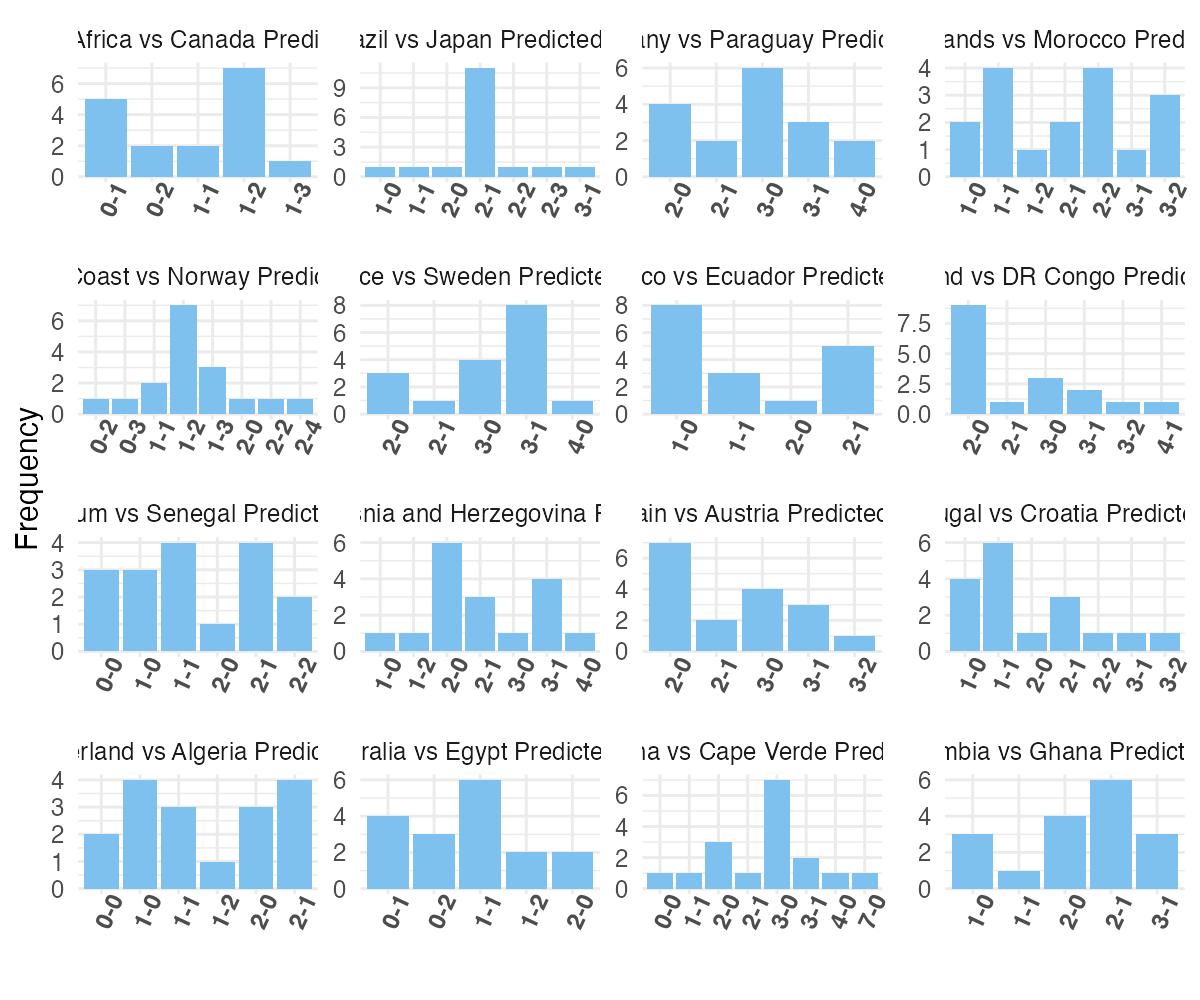
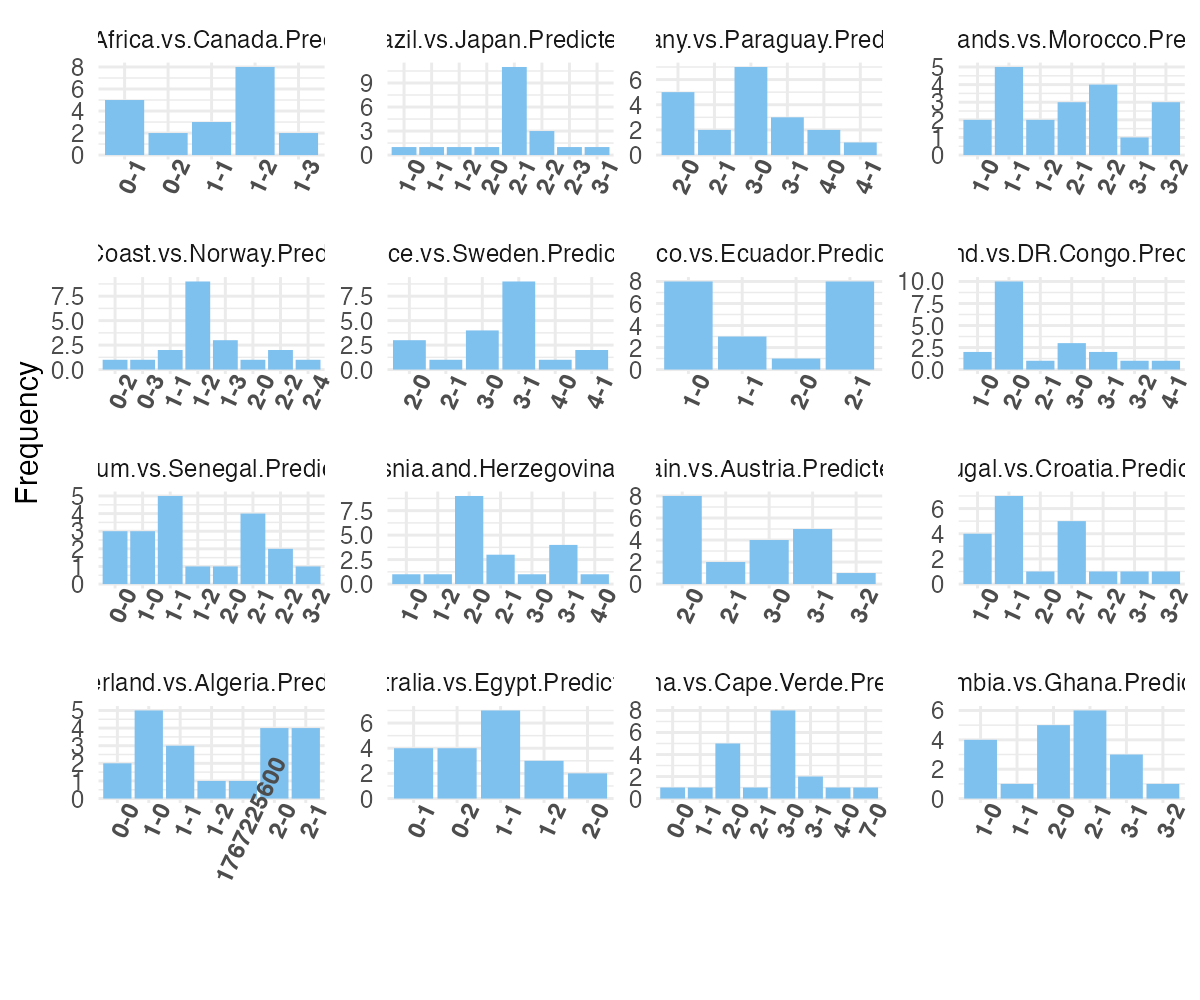
automatic README update

Changed region(s): [[0.0, 0.248, 0.9867, 0.93], [0.0308, 0.031, 0.74, 0.217], [0.7708, 0.031, 0.9867, 0.217]]

diff --git a/README.md b/README.md
@@ -1,4 +1,4 @@
-Last Update: Mon 29 Jun 2026 11:23:41 EDT
+Last Update: Mon 29 Jun 2026 12:03:55 EDT
 # **CANADA-USA-MEXICO FIFA WORLD CUP 2026**
 
 <p align=center>
@@ -79,9 +79,28 @@ Tie-Breaker 3: How far will Canada advance in the tournament?
  ## <u>**Score Predictions**</u>
 
  
-| Participant_ID | 73. South Africa vs Canada Predicted Score | 74. Brazil vs Japan Predicted Score | 75. Germany vs Paraguay Predicted Score | 76. Netherlands vs Morocco Predicted Score | 77. Ivory Coast vs Norway Predicted Score | 78. France vs Sweden Predicted Score | 79. Mexico vs Ecuador Predicted Score | 80. England vs DR Congo Predicted Score | 81. Belgium vs Senegal Predicted Score | 82. USA vs Bosnia and Herzegovina Predicted Score | 83. Spain vs Austria Predicted Score | 84. Portugal vs Croatia Predicted Score | 85. Switzerland vs Algeria Predicted Score | 86. Australia vs Egypt Predicted Score | 87. Argentina vs Cape Verde Predicted Score | 88. Colombia vs Ghana Predicted Score |
-| -------------- | ------------------------------------------ | ----------------------------------- | --------------------------------------- | ------------------------------------------ | ----------------------------------------- | ------------------------------------ | ------------------------------------- | --------------------------------------- | -------------------------------------- | ------------------------------------------------- | ------------------------------------ | --------------------------------------- | ------------------------------------------ | -------------------------------------- | ------------------------------------------- | ------------------------------------- |
-| 001            | 1-2                                        | 2-1                                 | 2-0                                     | 2-1                                        | 1-3                                       | 3-1                                  | 1-0                                   | 2-0                                     | 2-1                                    | 3-1                                               | 2-0                                  | 2-0                                     |                                            |
+| Participant_ID | X73..South.Africa.vs.Canada.Predicted.Score | X74..Brazil.vs.Japan.Predicted.Score | X75..Germany.vs.Paraguay.Predicted.Score | X76..Netherlands.vs.Morocco.Predicted.Score | X77..Ivory.Coast.vs.Norway.Predicted.Score | X78..France.vs.Sweden.Predicted.Score | X79..Mexico.vs.Ecuador.Predicted.Score | X80..England.vs.DR.Congo.Predicted.Score | X81..Belgium.vs.Senegal.Predicted.Score | X82..USA.vs.Bosnia.and.Herzegovina.Predicted.Score | X83..Spain.vs.Austria.Predicted.Score | X84..Portugal.vs.Croatia.Predicted.Score | X85..Switzerland.vs.Algeria.Predicted.Score | X86..Australia.vs.Egypt.Predicted.Score | X87..Argentina.vs.Cape.Verde.Predicted.Score | X88..Colombia.vs.Ghana.Predicted.Score |
+| -------------- | ------------------------------------------- | ------------------------------------ | ---------------------------------------- | ------------------------------------------- | ------------------------------------------ | ------------------------------------- | -------------------------------------- | ---------------------------------------- | --------------------------------------- | -------------------------------------------------- | ------------------------------------- | ---------------------------------------- | ------------------------------------------- | --------------------------------------- | -------------------------------------------- | -------------------------------------- |
+| 001            | 1-2                                         | 2-1                                  | 2-0                                      | 2-1                                         | 1-3                                        | 3-1                                   | 1-0                                    | 2-0                                      | 2-1                                     | 3-1                                                | 2-0                                   | 2-0                                      | 1-0                                         | 1-1                                     | 3-0                                          | 1-0                                    |
+| 002            | 1-1                                         | 2-1                                  | 4-0                                      | 2-2                                         | 1-2                                        | 3-1                                   | 2-1                                    | 3-0                                      | 1-1                                     | 4-0                                                | 2-0                                   | 1-1                                      | 1767225600                                  | 0-2                                     | 3-0                                          | 2-1                                    |
+| 003            | 0-1                                         | 2-1                                  | 3-0                                      | 1-1                                         | 1-2                                        | 3-0                                   | 2-0                                    | 2-0                                      | 1-1                                     | 3-1                                                | 3-0                                   | 1-1                                      | 0-0                                         | 1-1                                     | 7-0                                          | 2-1                                    |
+| 004            | 1-2                                         | 1-1                                  | 3-0                                      | 2-1                                         | 0-3                                        | 2-0                                   | 1-0                                    | 2-0                                      | 0-0                                     | 2-0                                                | 3-0                                   | 1-0                                      | 0-0                                         | 0-1                                     | 0-0                                          | 2-1                                    |
+| 005            | 1-2                                         | 3-1                                  | 4-0                                      | 1-1                                         | 2-0                                        | 3-1                                   | 1-1                                    | 3-1                                      | 1-0                                     | 3-1                                                | 2-0                                   | 1-1                                      | 2-1                                         | 1-2                                     | 4-0                                          | 2-1                                    |
+| 006            | 0-1                                         | 2-1                                  | 3-0                                      | 3-1                                         | 1-2                                        | 3-0                                   | 1-0                                    | 2-0                                      | 2-0                                     | 2-0                                                | 3-0                                   | 2-1                                      | 1-0                                         | 0-1                                     | 3-0                                          | 2-0                                    |
+| 007            | 0-1                                         | 2-1                                  | 3-1                                      | 1-1                                         | 0-2                                        | 2-1                                   | 1-0                                    | 3-0                                      | 0-0                                     | 2-0                                                | 3-2                                   | 1-0                                      | 1-1                                         | 1-1                                     | 3-0                                          | 2-0                                    |
+| 008            | 1-2                                         | 2-1                                  | 3-0                                      | 1-2                                         | 2-2                                        | 3-0                                   | 2-1                                    | 3-2                                      | 1-1                                     | 1-0                                                | 3-0                                   | 2-1                                      | 1-0                                         | 2-0                                     | 2-1                                          | 1-1                                    |
+| 009            | 0-2                                         | 2-0                                  | 2-0                                      | 1-0                                         | 1-3                                        | 2-0                                   | 2-1                                    | 2-1                                      | 2-1                                     | 2-1                                                | 2-1                                   | 1-0                                      | 2-0                                         | 1-1                                     | 2-0                                          | 3-1                                    |
+| 010            | 1-2                                         | 2-1                                  | 2-0                                      | 1-0                                         | 1-3                                        | 4-0                                   | 1-1                                    | 2-0                                      | 1-0                                     | 1-2                                                | 2-0                                   | 3-1                                      | 1-0                                         | 0-2                                     | 3-1                                          | 2-1                                    |
+| 011            | 1-2                                         | 2-1                                  | 2-1                                      | 2-2                                         | 1-2                                        | 3-1                                   | 2-1                                    | 3-1                                      | 2-1                                     | 3-1                                                | 3-1                                   | 2-2                                      | 1-1                                         | 1-2                                     | 3-1                                          | 3-1                                    |
+| 012            | 1-1                                         | 2-2                                  | 4-1                                      | 1-1                                         | 1-2                                        | 4-1                                   | 2-1                                    | 1-0                                      | 3-2                                     | 2-0                                                | 3-1                                   | 2-1                                      | 1-0                                         | 1-1                                     | 3-0                                          | 2-0                                    |
+| 013            | 1-3                                         | 2-3                                  | 3-1                                      | 3-2                                         | 2-4                                        | 3-0                                   | 1-0                                    | 2-0                                      | 2-2                                     | 2-0                                                | 2-0                                   | 3-2                                      | 2-1                                         | 2-0                                     | 1-1                                          | 3-1                                    |
+| 014            | 1-3                                         | 1-2                                  | 2-0                                      | 1-2                                         | 2-2                                        | 3-1                                   | 2-1                                    | 1-0                                      | 1-2                                     | 2-0                                                | 3-1                                   | 1-1                                      | 1-2                                         | 1-2                                     | 2-0                                          | 1-0                                    |
+| 015            | 1-1                                         | 2-1                                  | 3-0                                      | 2-2                                         | 1-1                                        | 3-1                                   | 1-1                                    | 2-0                                      | 1-1                                     | 2-1                                                | 2-1                                   | 1-1                                      | 2-1                                         | 1-1                                     | 2-0                                          | 1-0                                    |
+| 016            | 0-1                                         | 1-0                                  | 2-0                                      | 1-1                                         | 1-1                                        | 2-0                                   | 1-0                                    | 2-0                                      | 2-1                                     | 2-0                                                | 2-0                                   | 1-0                                      | 2-1                                         | 1-1                                     | 2-0                                          | 1-0                                    |
+| 017            | 0-1                                         | 2-1                                  | 3-1                                      | 2-2                                         | 1-2                                        | 3-1                                   | 1-0                                    | 3-0                                      | 0-0                                     | 2-0                                                | 3-1                                   | 1-1                                      | 2-0                                         | 0-1                                     | 3-0                                          | 2-1                                    |
+| 018            | 1-2                                         | 2-2                                  | 3-0                                      | 3-2                                         | 1-2                                        | 3-1                                   | 2-1                                    | 2-0                                      | 2-2                                     | 2-1                                                | 3-1                                   | 1-1                                      | 1-1                                         | 0-2                                     | 3-0                                          | 2-0                                    |
+| 019            | 0-2                                         | 2-1                                  | 2-1                                      | 3-2                                         | 1-2                                        | 3-1                                   | 1-0                                    | 4-1                                      | 1-0                                     | 3-0                                                | 2-0                                   | 2-1                                      | 2-0                                         | 0-1                                     | 3-0                                          | 2-0                                    |
+| 020            | 1-2                                         | 2-2                                  | 3-0                                      | 2-1                                         | 1-2                                        | 4-1                                   | 2-1                                    | 2-0                                      | 1-1                                     | 2-0                                                | 2-0                                   | 2-1                                      | 2-0                                         | 0-2                                     | 2-0                                          | 3-2                                    |
 
 ![](media/predicted_scores_K16.png)
 